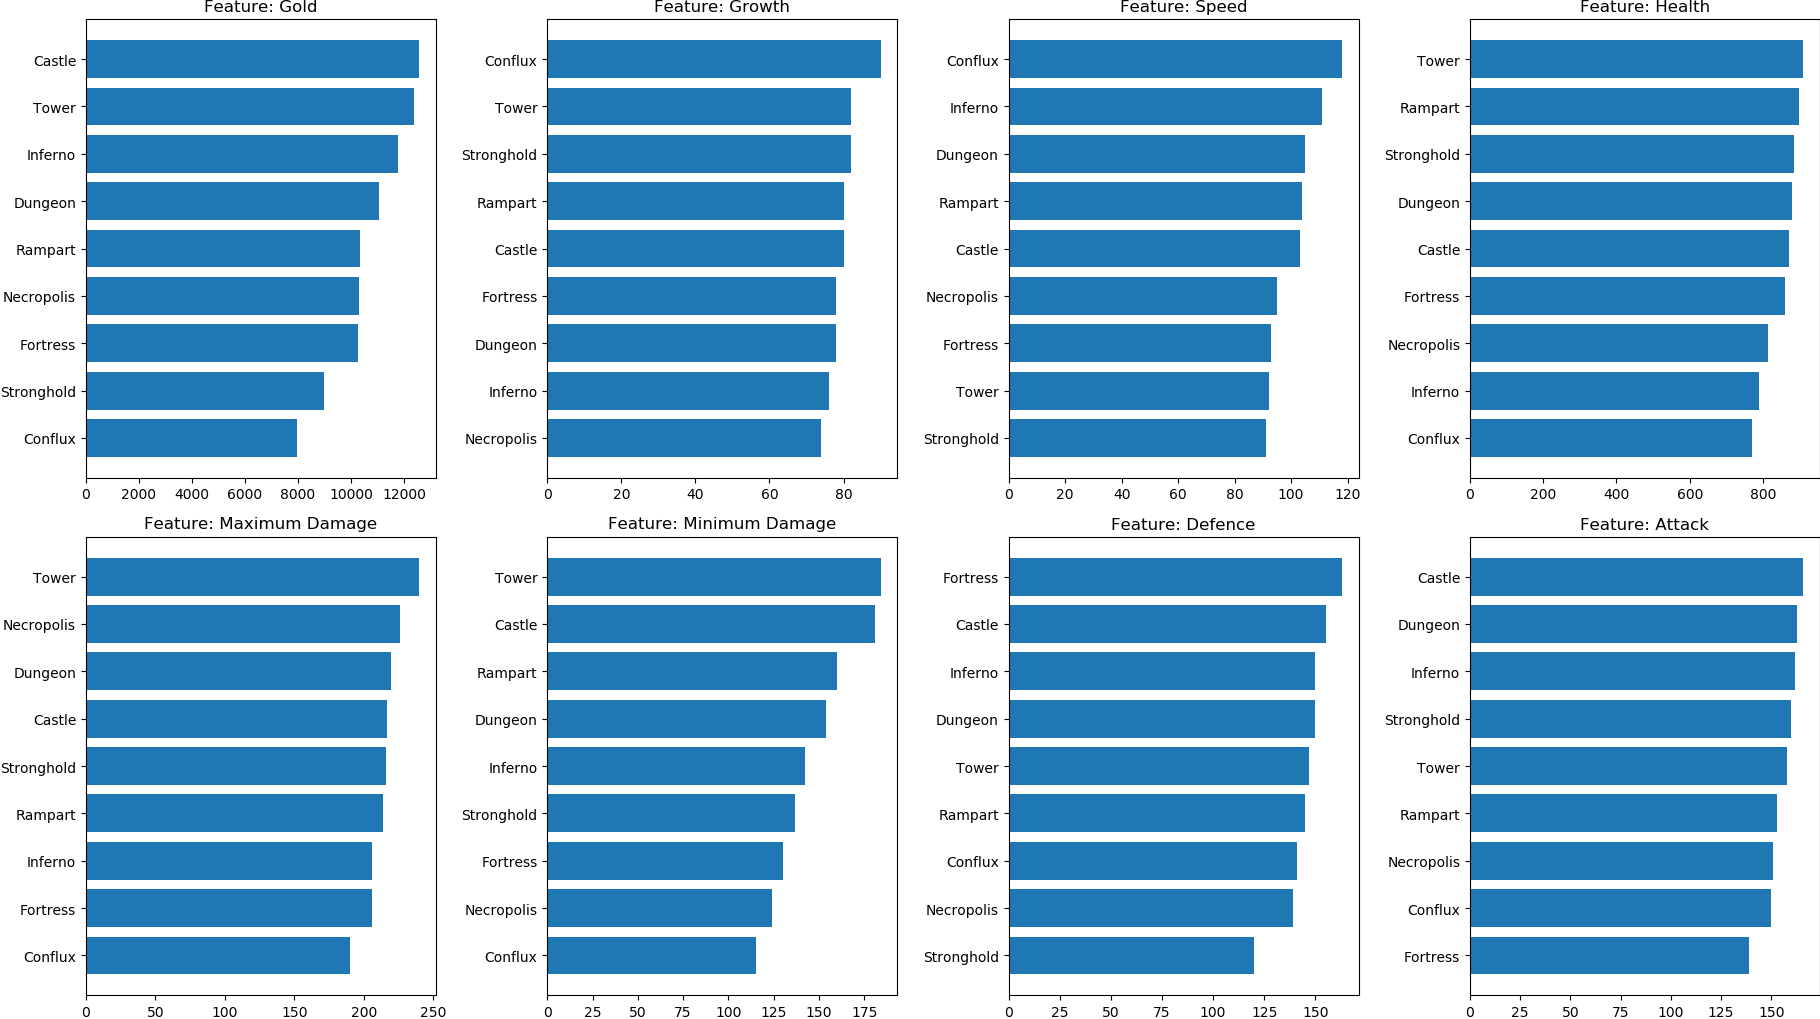
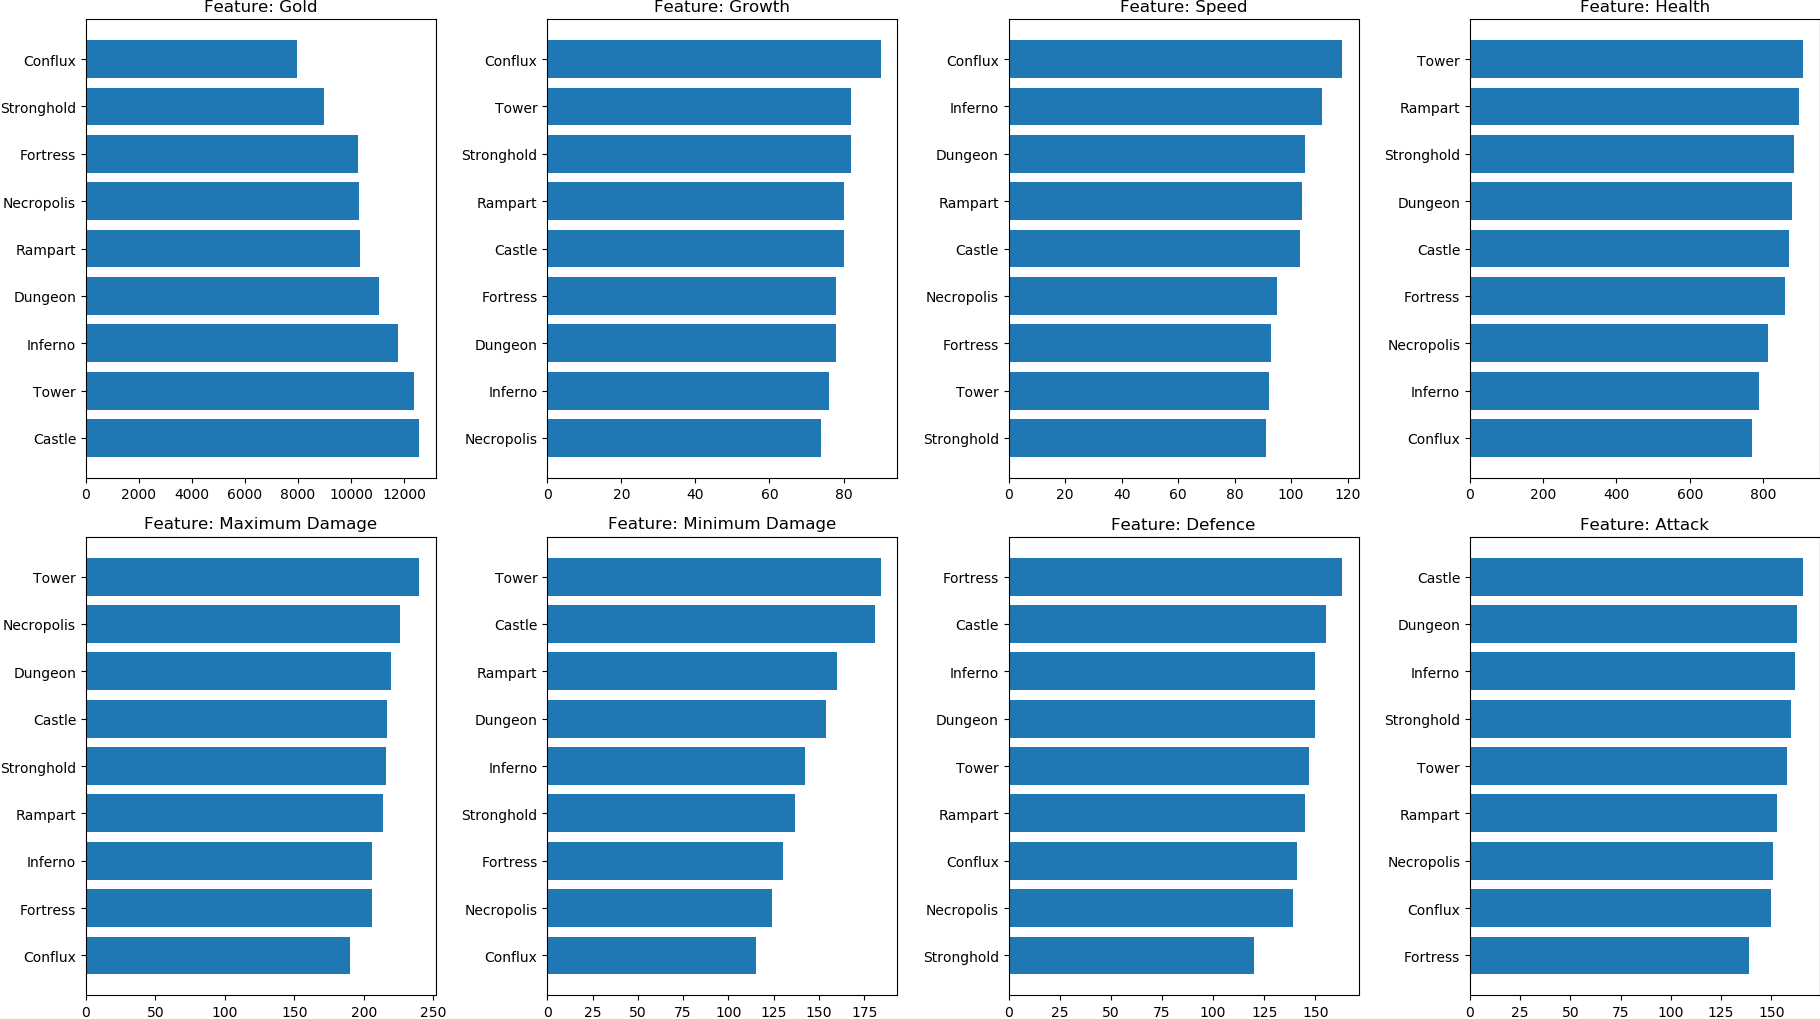
Added Special Case for Column Gold

diff --git a/exploration.py b/exploration.py
@@ -56,7 +56,11 @@ for idx, col in enumerate(data_castle_grouped.columns):
     ax = fig.add_subplot(2, 4, idx + 1)
 
     # sorted values
-    sorted_col = data_castle_grouped[col].sort_values()
+    asc = True
+    if col == "Gold":
+        asc = False
+
+    sorted_col = data_castle_grouped[col].sort_values(ascending=asc)
 
     # create bar plot
     ax.barh(sorted_col.index, sorted_col.values)
